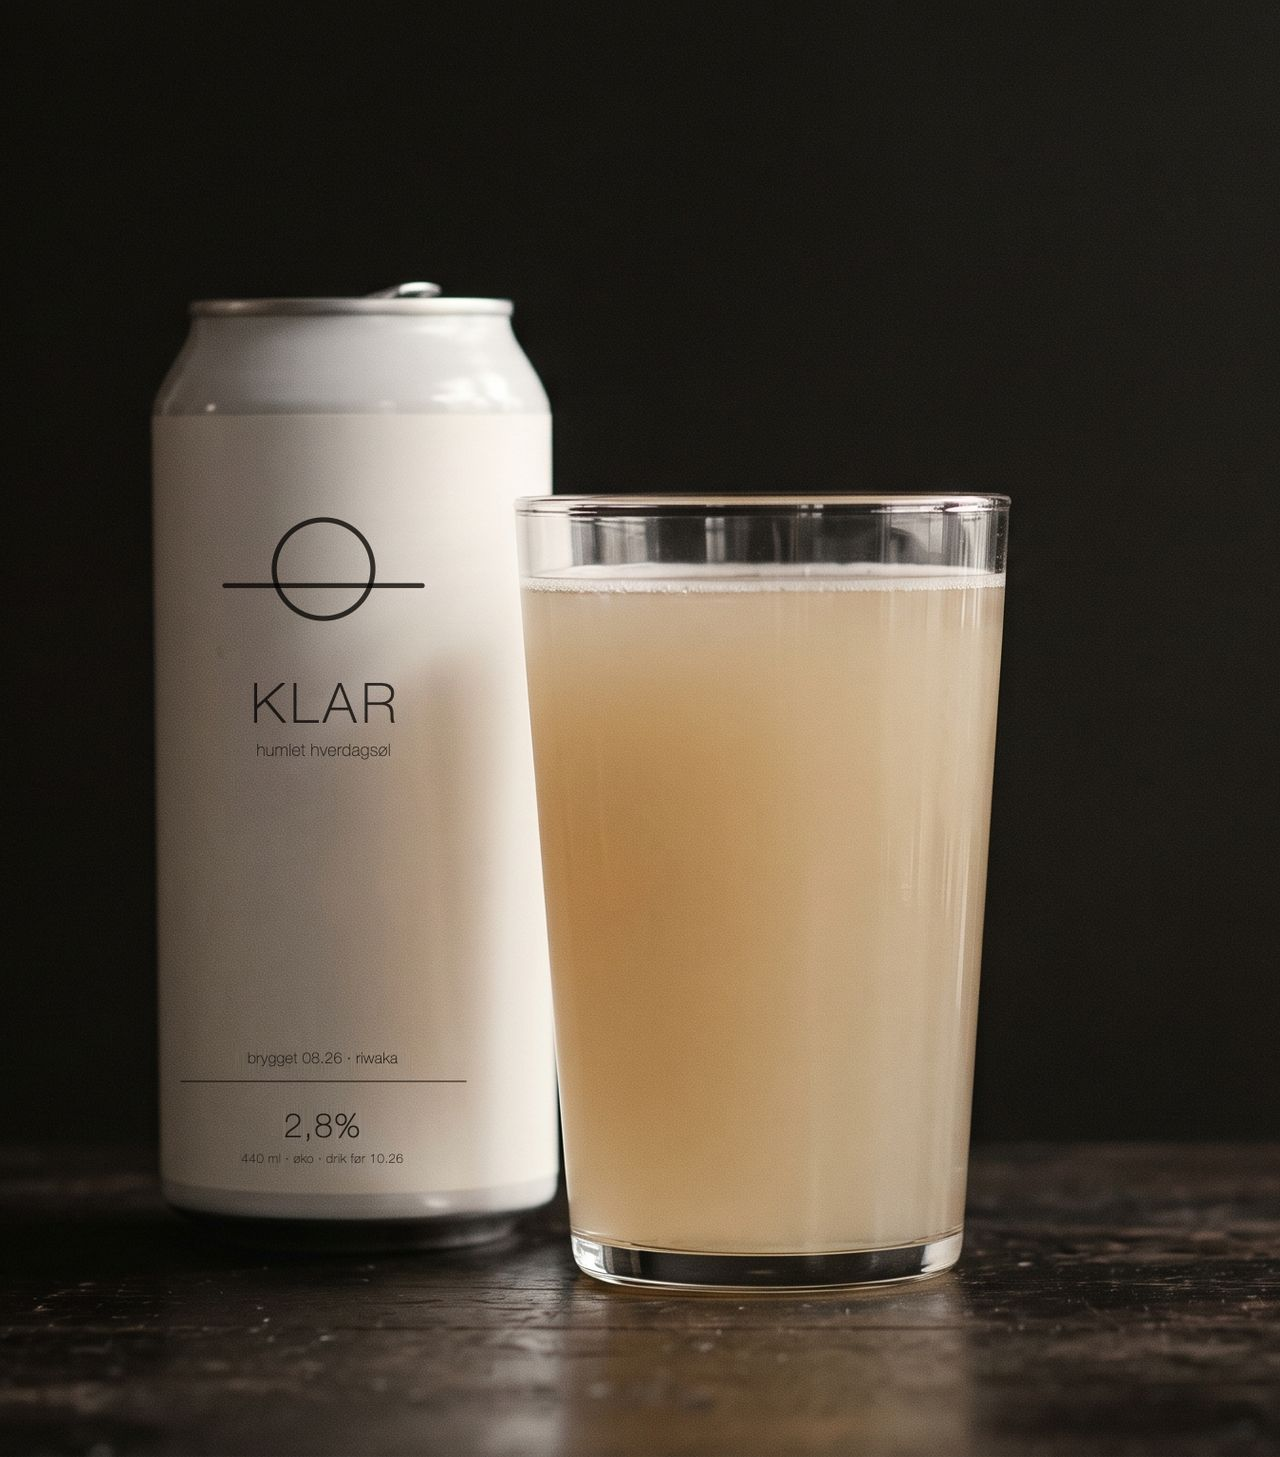
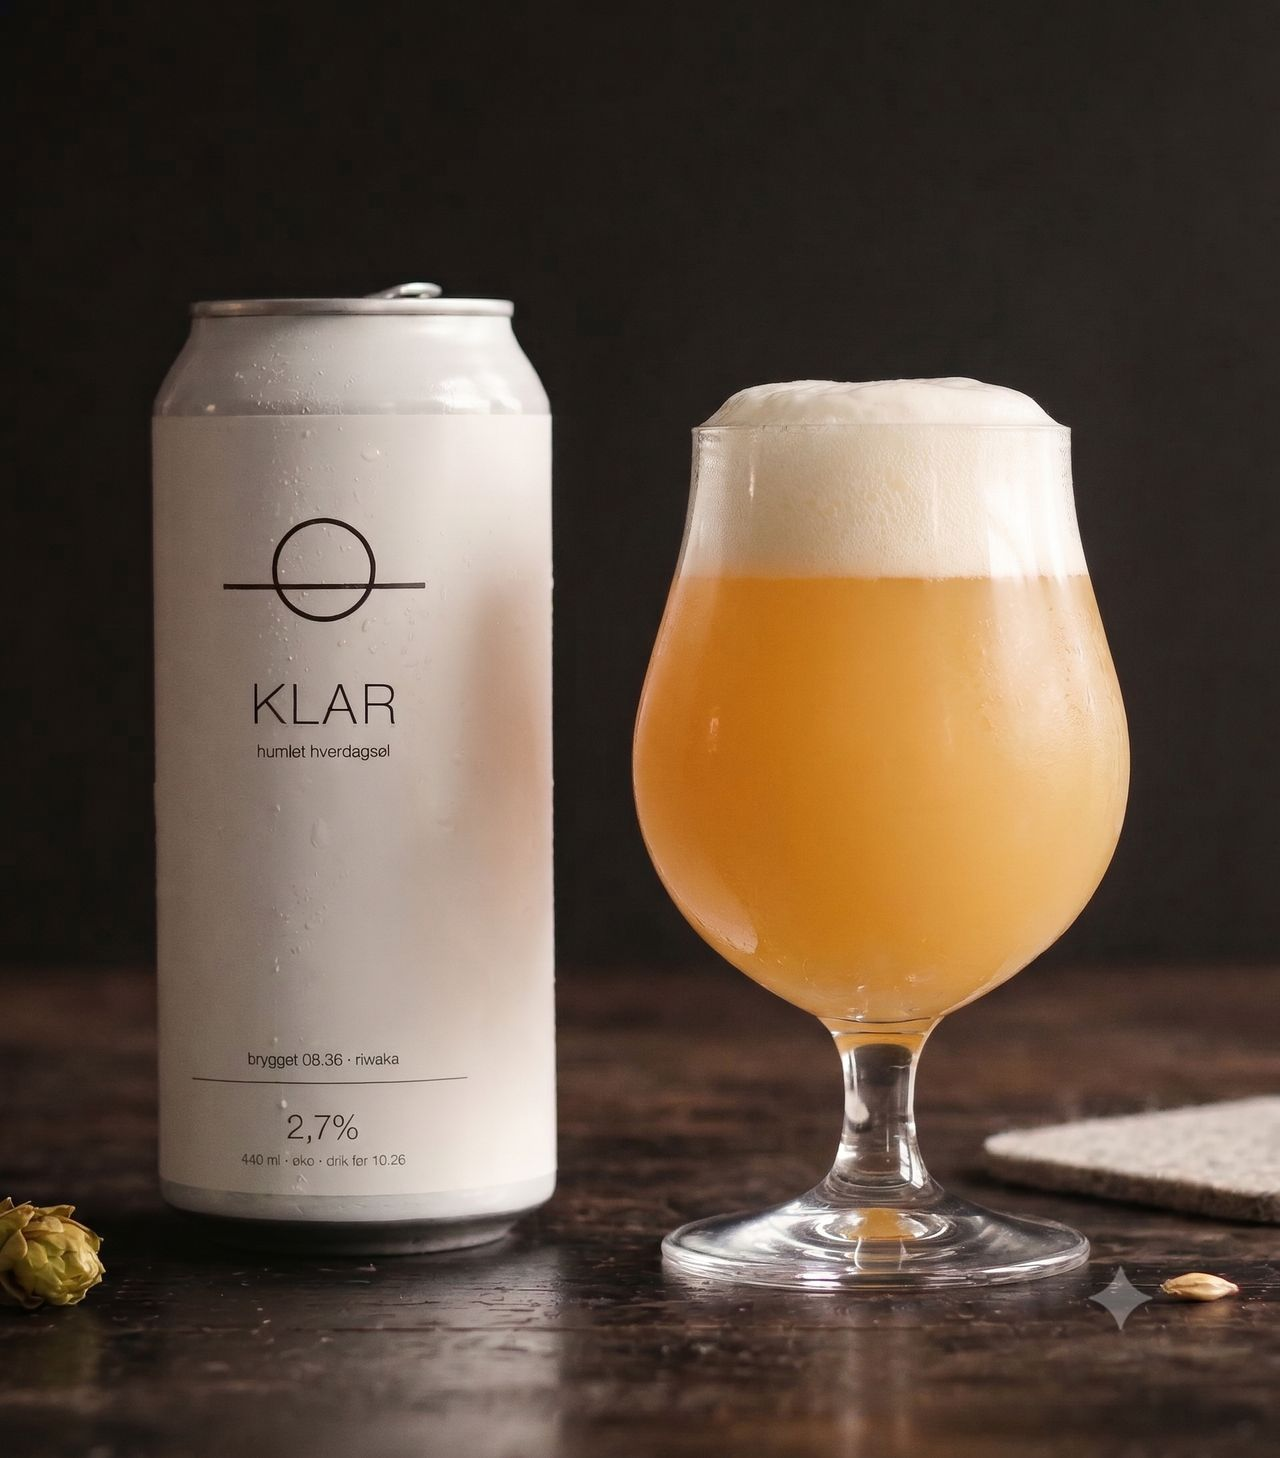
Replace the hero photograph
New source is 1920x2186, already at the hero column's 720/820 aspect, so the crop
is a 0.03% adjustment and the whole frame is used -- the old source was 1.10 and
lost a third of itself to cropping. Regenerated at 480/720/960/1280 as WebP and
JPEG; a desktop load pulls 28 kB for the hero.

object-position moves from 26% 58% to 50% 55%. The new shot is a balanced
two-subject composition -- can left, glass right -- so an off-centre position
would clip one of them where a narrow viewport trims the sides. The slight
downward bias sends the expendable headroom first when a wide viewport trims top
and bottom instead. Dimensions and alt text updated to the new frame.

The can in this one reads 2,7%, which fixes the ABV contradiction the previous
hero had. It introduces two new ones, both flagged rather than papered over:

- the batch line reads "brygget 08.36", a ten-year typo for 08.26
- the other three photographs still read 2,8%, so the page now shows cans at two
  different strengths

So the photography check is per-asset now, and additionally checks whether the
four agree with *each other* -- a distinct problem from any of them disagreeing
with CONFIG, since the page shows several at once. PHOTO_BATCH becomes
PHOTO_LABELS, still describing what is actually in the pictures.

Also recorded: the new hero carries a four-pointed generator watermark on the
table beside the barley grain, visible at every served width. It cannot be cropped
[…]

diff --git a/site/index.html b/site/index.html
@@ -94,8 +94,8 @@
         <img src="assets/img/haze-960.jpg"
              srcset="assets/img/haze-480.jpg 480w, assets/img/haze-720.jpg 720w, assets/img/haze-960.jpg 960w, assets/img/haze-1280.jpg 1280w"
              sizes="(max-width: 900px) 100vw, 50vw"
-             width="1349" height="1536" fetchpriority="high" decoding="async"
-             alt="En dåse Klar ved siden af et uklart glas øl på et mørkt bord.">
+             width="1919" height="2186" fetchpriority="high" decoding="async"
+             alt="En dåse Klar ved siden af et glas uklar, gylden øl på et mørkt træbord. Foran ligger en humlekop.">
       </picture>
     </div>
   </section>

diff --git a/site/css/klar.css b/site/css/klar.css
@@ -412,7 +412,12 @@ input {
   width: 100%;
   height: 100%;
   object-fit: cover;
-  object-position: 26% 58%;
+  /* The hero photograph is a balanced two-subject shot — can left, glass right —
+     already framed at this container's aspect, so nothing is cropped at the
+     designed size. Centred horizontally so neither subject is clipped when a
+     narrow viewport trims the sides, and biased slightly low so the expendable
+     headroom goes first when a wide one trims top and bottom. */
+  object-position: 50% 55%;
 }
 
 /* --- 1b. hverdagsøl ----------------------------------------------------- */

diff --git a/site/tools/build-images.py b/site/tools/build-images.py
@@ -25,7 +25,10 @@ OUT = ROOT / "site" / "assets" / "img"
 # cards are half the 1280 content width less the 32 gap (624) by 380.
 JOBS = [
     # hero, right half of the fold
-    ("haze", "haze-klar.png", 720 / 820, (0.26, 0.58), [480, 720, 960, 1280]),
+    # the new hero source is already at the display aspect, so this crop is a
+    # no-op and the whole frame is used; the position matters only where the
+    # container aspect differs (mobile, very wide viewports)
+    ("haze", "haze-klar.png", 720 / 820, (0.50, 0.55), [480, 720, 960, 1280]),
     # HVERDAGSØL, mirrored to the left half
     ("kitchen", "hero-kitchen-klar.png", 720 / 820, (0.38, 0.74), [480, 720, 960, 1280]),
     # the two freshness cards

diff --git a/site/README.md b/site/README.md
@@ -241,16 +241,32 @@ diffable while every deploy busts the cache.
 
 ## Known gaps
 
-- **The photography is placeholder-grade and hard-codes the batch.** The label
-  text on the cans — mark, `KLAR`, batch line, ABV, best-before — is composited
-  pixel work, not live text. It reads `08.26 · riwaka`, `drik før 10.26` and
-  **`2,8%`** — and the declared strength is now 2,7%, so **the cans in all four
-  photographs already contradict the page.** `check-dates.mjs` reports this as a
-  warning on every deploy (a warning, not a failure: the photography is a
-  known-pending asset, and a check that blocked every deploy on it would just get
-  deleted). Nothing in code can fix it. Replace all four with real photography
-  before launch, then update `PHOTO_BATCH` in that script. A third delivery photo
-  (empty cans in a crate) was specified but never produced.
+- **The photography hard-codes the batch, and the four assets no longer agree with
+  each other.** The label text on the cans — mark, `KLAR`, batch line, ABV,
+  best-before — is composited pixel work, not live text, so none of it can be
+  changed by code. `check-dates.mjs` reports the state of all four on every
+  deploy, as warnings rather than failures (a failure would block every deploy on
+  a known-pending asset, and the check would just get deleted). Right now:
+
+  | asset | batch | abv | against config |
+  |---|---|---|---|
+  | `haze-klar.png` (hero) | `08.36` | `2,7%` | ABV right, **batch reads 08.36 — ten years out from 08.26** |
+  | `hero-kitchen-klar.png` | `08.26` | `2,8%` | batch right, ABV stale |
+  | `bike-klar.png` | `08.26` | `2,8%` | batch right, ABV stale |
+  | `doorstep-klar.png` | `08.26` | `2,8%` | batch right, ABV stale |
+
+  The hero was re-shot at 2,7%, which fixed the strength there and left the other
+  three behind — so the page now shows cans at two different strengths, and the
+  hero's own batch line is a decade off. **They have to agree with each other
+  before they agree with anything else.** Update `PHOTO_LABELS` in that script
+  whenever an asset is re-made.
+- **The hero photograph carries a generator watermark.** A four-pointed sparkle
+  sits on the table right of the glass — roughly 87% across, 90% down, beside the
+  barley grain. It is the image generator's mark, baked into the pixels, and
+  visible at every served width. It cannot be cropped out without losing either
+  the glass or the hop cone, so it needs retouching or a clean re-export before
+  launch. A third delivery photo (empty cans in a crate) was specified in the
+  handoff but never produced.
 - **The hop calendar and the current batch disagree.** The årstid copy promises
   *"vi brygger med den, der senest er landet"* — the most recently landed hop.
   The current batch is riwaka, from new zealand, which lands maj–juni; australien
